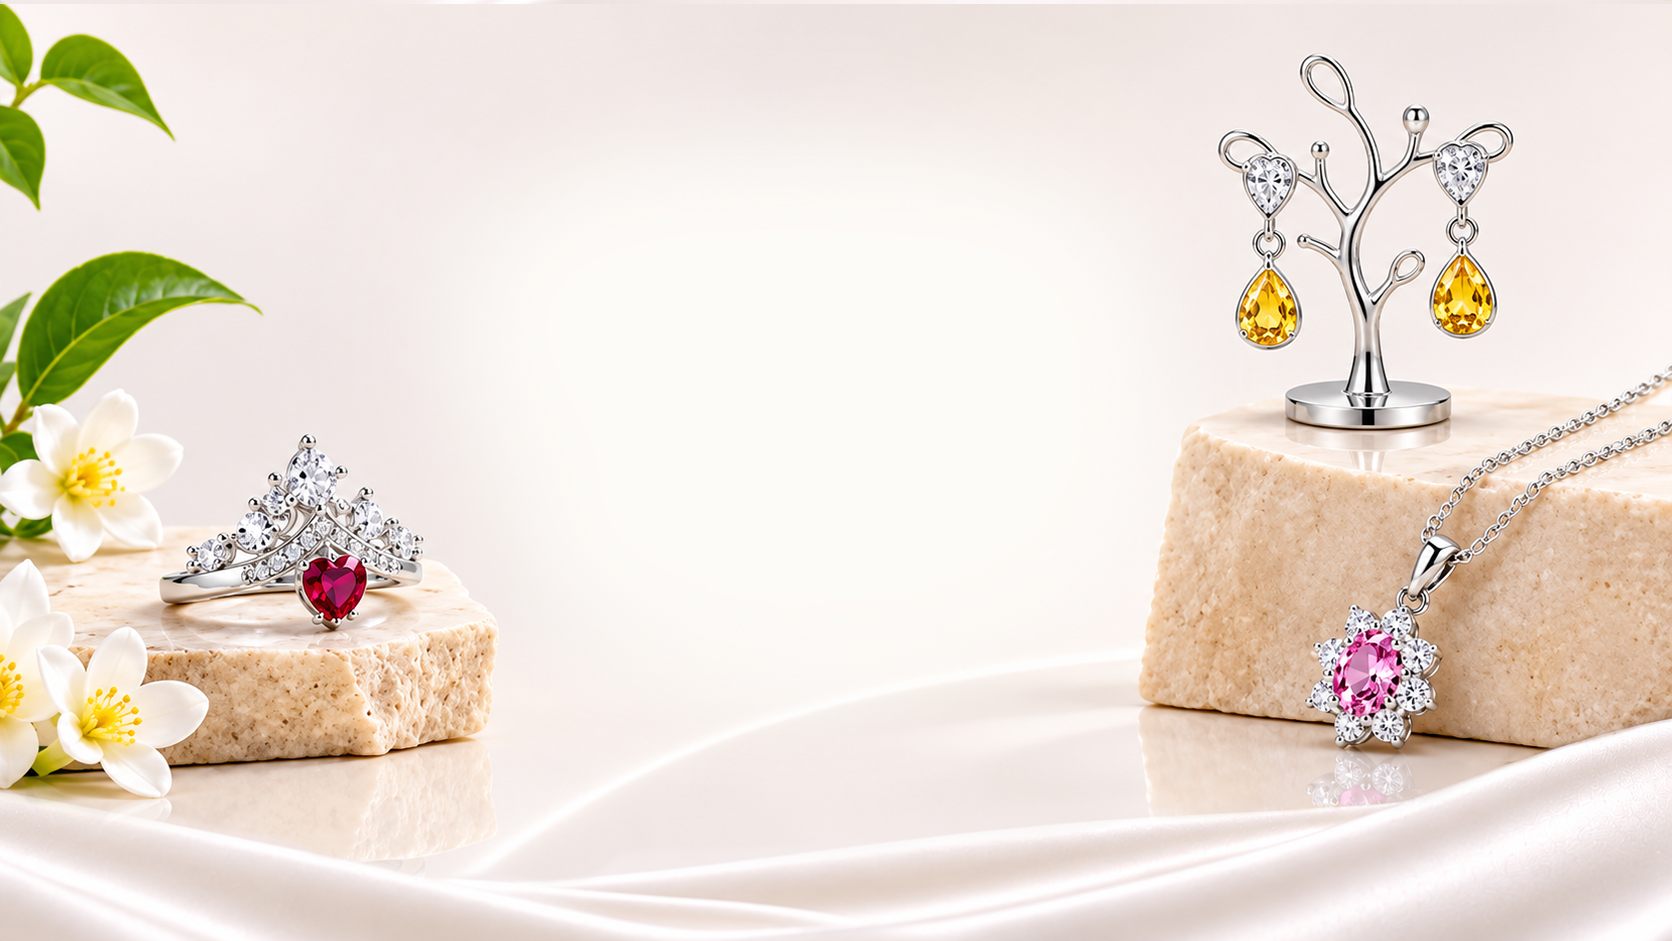
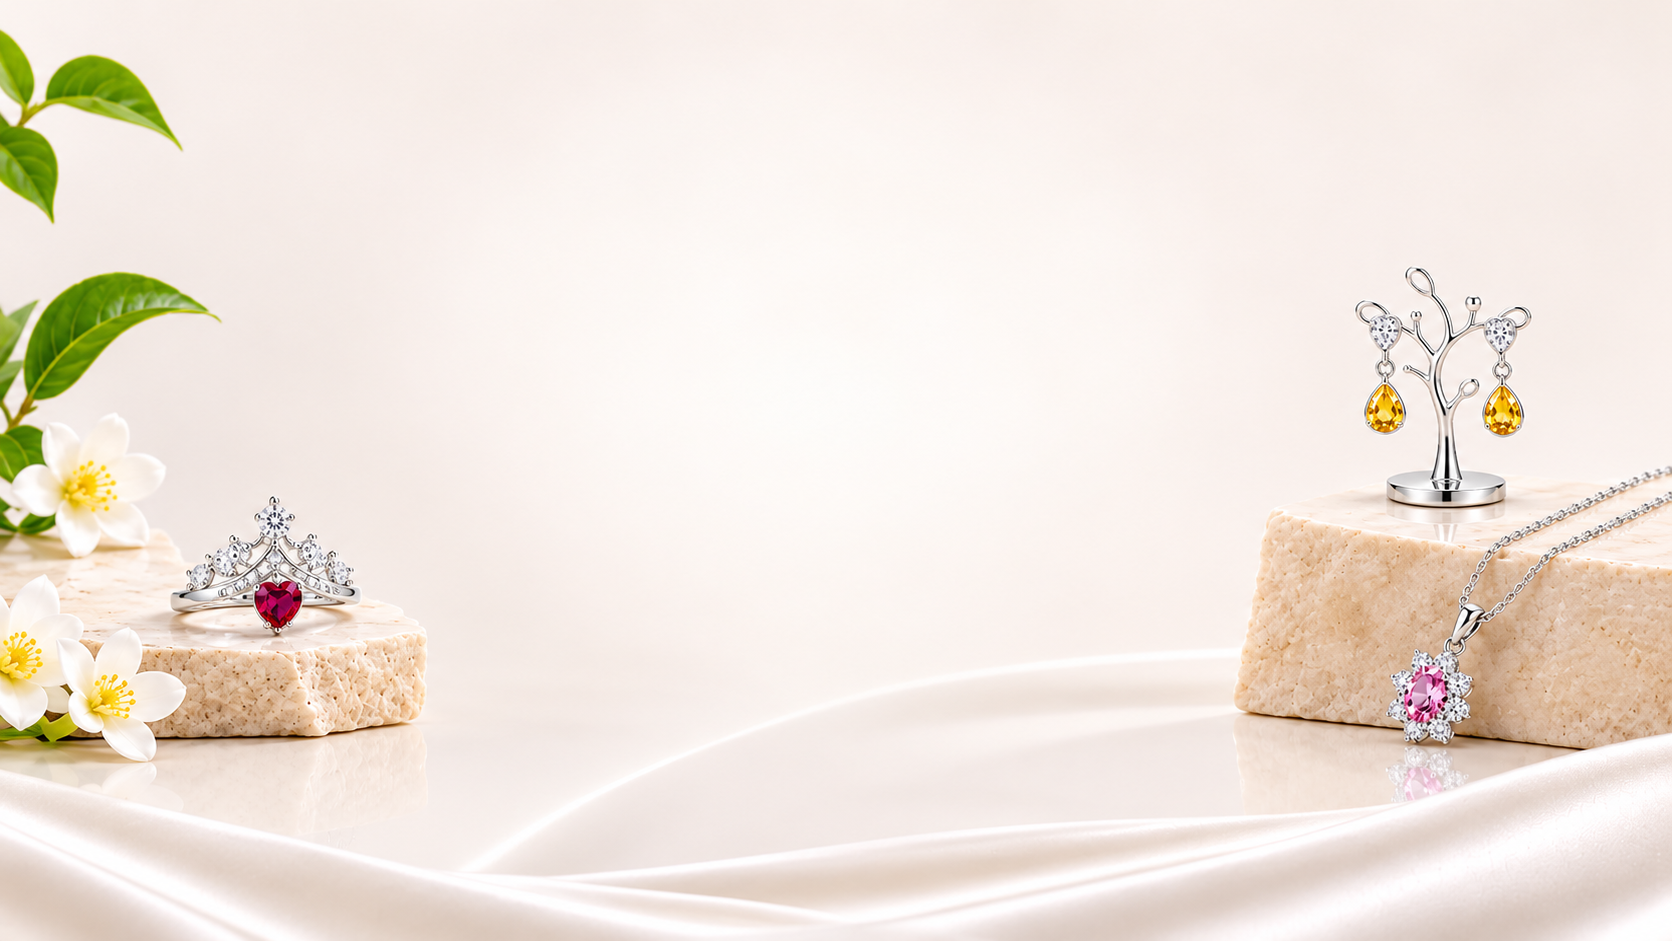
fix: update background image path and adjust scrollbar colors for consistency

diff --git a/src/styles/variables.css b/src/styles/variables.css
@@ -65,7 +65,7 @@ html.lenis body {
 
 * {
   scrollbar-width: thin;
-  scrollbar-color: #c4a768 #fbf9f5;
+  scrollbar-color: #c4a768 #FDFBF7;
 }
 
 ::-webkit-scrollbar {
@@ -74,7 +74,7 @@ html.lenis body {
 }
 
 ::-webkit-scrollbar-track {
-  background: #fbf9f5;
+  background: #FDFBF7;
 }
 
 ::-webkit-scrollbar-thumb {

diff --git a/src/styles/Home.css b/src/styles/Home.css
@@ -6,7 +6,7 @@
   justify-content: center;
   text-align: center;
   padding: calc(var(--nav-height, 92px) + 2rem) 1.5rem 3.5rem;
-  background-image: url('./public/bg-img.png');
+  background-image: url('/bg-img.png');
   background-size: cover;
   /* background-color: var(--color-bg, #fdfbf7); */
 }
